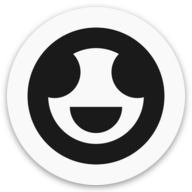
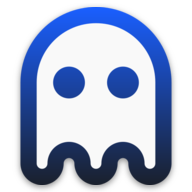
update assets

diff --git a/packages/components/logo.tsx b/packages/components/logo.tsx
@@ -5,15 +5,38 @@ import Icon, { type IconProps } from "@chakra-ui/icon";
 export const Logo: React.FC<IconProps> = (props) => {
   return (
     <Icon
-      viewBox="0 0 100 100"
+      viewBox="0 0 132 132"
       fill="none"
       xmlns="http://www.w3.org/2000/svg"
       {...props}
     >
-      <path
-        d="m50 0c-27.614-2.7062e-5 -50 22.386-50 50-2.8167e-5 27.614 22.386 50 50 50 27.614 3e-5 50-22.386 50-50 3e-5 -27.614-22.386-50-50-50zm0 15c5.8395 0.02302 11.58 1.5068 16.7 4.316-3.4377 3.5296-5.3699 8.2566-5.3888 13.184-2.16e-4 10.494 8.5064 19 19 19 1.5562-0.01348 3.1048-0.2181 4.6111-0.60926-0.48254 18.951-15.965 34.073-34.922 34.109-18.957-0.036159-34.439-15.158-34.922-34.109 1.5063 0.39116 3.0549 0.59578 4.6111 0.60926 10.494-7e-5 19-8.5069 19-19-0.01893-4.927-1.9511-9.6541-5.3888-13.184 5.1194-2.8093 10.86-4.293 16.7-4.316zm-19.1 42.95a19.1 19.1 0 0 0 9.5503 16.541 19.1 19.1 0 0 0 19.1 0 19.1 19.1 0 0 0 9.5503-16.541h-19.1-19.1z"
-        fill="currentColor"
-      />
+      <defs>
+        <linearGradient
+          id="gradient"
+          x1="-4195.8"
+          x2="-4195.8"
+          y1="2410.9"
+          y2="2542.9"
+          gradientUnits="userSpaceOnUse"
+        >
+          <stop stop-color="#1a5fff" offset="0" />
+          <stop stop-color="#1a202c" offset="1" />
+        </linearGradient>
+      </defs>
+      <g transform="translate(4261.8 -2410.9)">
+        <path
+          d="m-4195.8 2416.9a50 50 0 0 0-50 50v60a10 10 0 0 0 5.0002 8.6605 10 10 0 0 0 9.9999 0 10 10 0 0 0 5.0002-8.6605 10 10 0 0 1 4.9997-8.6599 10 10 0 0 1 9.9999 0 10 10 0 0 1 5.0002 8.6599 10 10 0 0 0 5.0002 8.6605 10 10 0 0 0 9.9999 0 10 10 0 0 0 4.9997-8.6605 10 10 0 0 1 5.0002-8.6599 10 10 0 0 1 9.9999 0 10 10 0 0 1 5.0002 8.6599 10 10 0 0 0 4.9997 8.6605 10 10 0 0 0 9.9999 0 10 10 0 0 0 5.0003-8.6605v-60a50 50 0 0 0-50-50z"
+          fill="#ffffff"
+          stroke-linecap="round"
+          stroke-linejoin="round"
+        />
+        <path
+          d="m-4195.8 2410.9c-30.856 0-55.998 25.144-55.998 56v60c-1e-4 5.7067 3.0598 11.004 8.0021 13.858 4.9421 2.8533 11.056 2.8533 15.998 0 4.9423-2.8533 8.0022-8.1508 8.0021-13.858 1e-4 -1.4381 0.7527-2.7434 1.9978-3.4629 1.2459-0.7193 2.7544-0.7193 4.0003 0s1.9997 2.0242 1.9998 3.4629c-1e-4 5.7067 3.0598 11.004 8.0021 13.858 4.9421 2.8533 11.058 2.8533 16 0 4.9421-2.8535 7.9981-8.1509 7.9979-13.858 1e-4 -1.4387 0.754-2.7436 1.9999-3.4629s2.7544-0.7193 4.0003 0 1.9998 2.0242 1.9999 3.4629c-2e-4 5.7066 3.0559 11.004 7.9979 13.858 4.9421 2.8533 11.058 2.8533 16 0 4.9424-2.8533 8.0001-8.1508 8-13.858v-60c1e-4 -30.856-25.142-55.999-55.998-56zm0 12h0.01c24.369 0 43.994 19.63 43.994 44v60c0 1.4387-0.7539 2.7456-1.9999 3.4649-1.2454 0.719-2.7526 0.7184-3.9982 0-1.2451-0.7195-1.9979-2.0267-1.9978-3.4649-3e-4 -5.7065-3.06-11.002-8.0021-13.856-4.942-2.8532-11.056-2.8532-15.998 0-4.942 2.8531-8.0018 8.149-8.0021 13.856 1e-4 1.4387-0.7539 2.7455-1.9999 3.4649-1.2455 0.7184-2.7528 0.719-3.9982 0-1.246-0.7193-2.0019-2.0262-2.0019-3.4649-2e-4 -5.7065-3.0579-11.002-8-13.856-4.942-2.8532-11.058-2.8532-16 0-4.9417 2.8534-7.9979 8.1492-7.998 13.856 0 1.4387-0.7538 2.7456-1.9998 3.4649-1.2459 0.7194-2.7522 0.7194-3.9982 0-1.246-0.7193-1.9999-2.0262-1.9999-3.4649v-60c0-24.37 19.625-43.997 43.994-44zm-20 32.199a11.8 11.8 0 0 0-11.8 11.8 11.8 11.8 0 0 0 11.8 11.8 11.8 11.8 0 0 0 11.8-11.8 11.8 11.8 0 0 0-11.8-11.8zm40 0a11.8 11.8 0 0 0-11.8 11.8 11.8 11.8 0 0 0 11.8 11.8 11.8 11.8 0 0 0 11.8-11.8 11.8 11.8 0 0 0-11.8-11.8z"
+          fill="url(#gradient)"
+          stroke-linecap="round"
+          stroke-linejoin="round"
+        />
+      </g>
     </Icon>
   );
 };

diff --git a/apps/next/src/modules/onboarding/onboarding-intro.tsx b/apps/next/src/modules/onboarding/onboarding-intro.tsx
@@ -1,13 +1,25 @@
+import { motion } from "framer-motion";
 import React from "react";
 
 import { BODY_COPY_BASE } from "@quenti/branding";
 import { HeadSeo } from "@quenti/components";
 
-import { Button, Center, Heading, Text, VStack } from "@chakra-ui/react";
+import { Button, Heading, Text, VStack } from "@chakra-ui/react";
 
 import { Logo } from "../../../../../packages/components/logo";
 import { useTelemetry } from "../../lib/telemetry";
 import { PresentWrapper, useNextStep } from "./present-wrapper";
+
+const ghost = {
+  transition: {
+    repeat: Infinity,
+    duration: 5,
+    ease: "backInOut",
+  },
+  animate: {
+    translateY: [0, -20, 0],
+  },
+};
 
 export const OnboardingIntro = () => {
   const { event } = useTelemetry();
@@ -39,16 +51,9 @@ const Intro = () => {
 
   return (
     <VStack spacing={6} textAlign="center">
-      <Center
-        w="24"
-        h="24"
-        rounded="full"
-        bgGradient="linear-gradient(to-tr, blue.400 50%, blue.200)"
-        shadow="xl"
-        color="white"
-      >
-        <Logo width={14} height={14} />
-      </Center>
+      <motion.div {...ghost}>
+        <Logo width={24} height={24} />
+      </motion.div>
       <Heading size="3xl">Welcome to Quenti</Heading>
       <Text fontWeight={500}>{BODY_COPY_BASE}</Text>
       <Button mt="4" w="72" size="lg" onClick={next}>

diff --git a/apps/next/src/components/auth-layout.tsx b/apps/next/src/components/auth-layout.tsx
@@ -101,16 +101,7 @@ export const AuthLayout: React.FC<AuthLayoutProps> = ({
               }}
             >
               <VStack spacing="8">
-                <Center
-                  w="24"
-                  h="24"
-                  rounded="full"
-                  bgGradient="linear-gradient(to-tr, blue.400 50%, blue.200)"
-                  shadow="xl"
-                  color="white"
-                >
-                  <Logo width={14} height={14} />
-                </Center>
+                <Logo width={24} height={24} />
                 <Heading fontSize="24px" textAlign="center">
                   {mode == "signup"
                     ? "Create your Quenti account"
